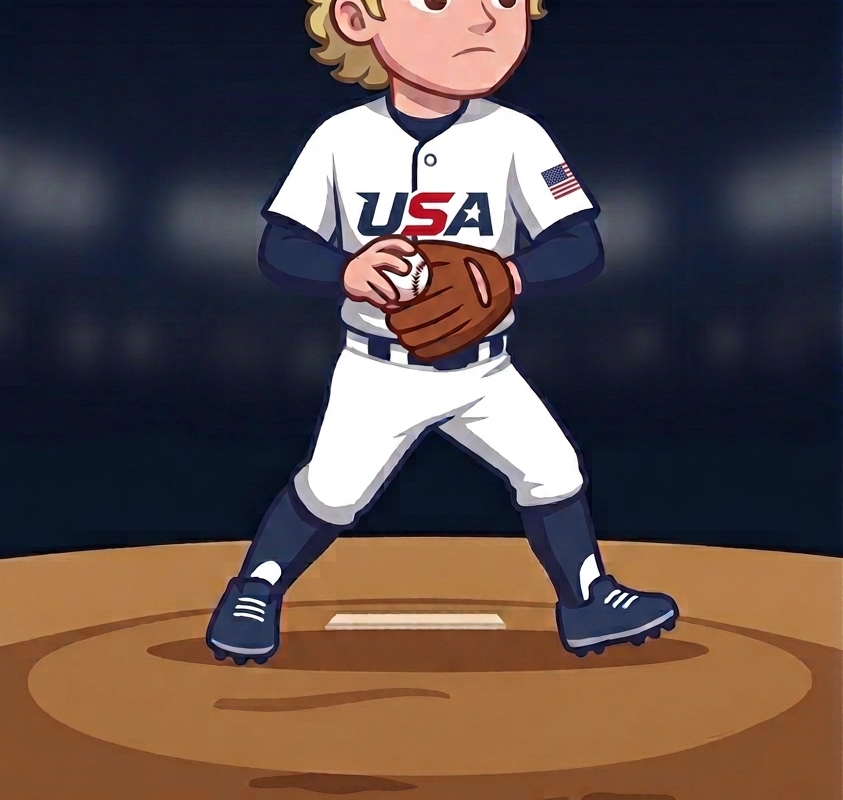
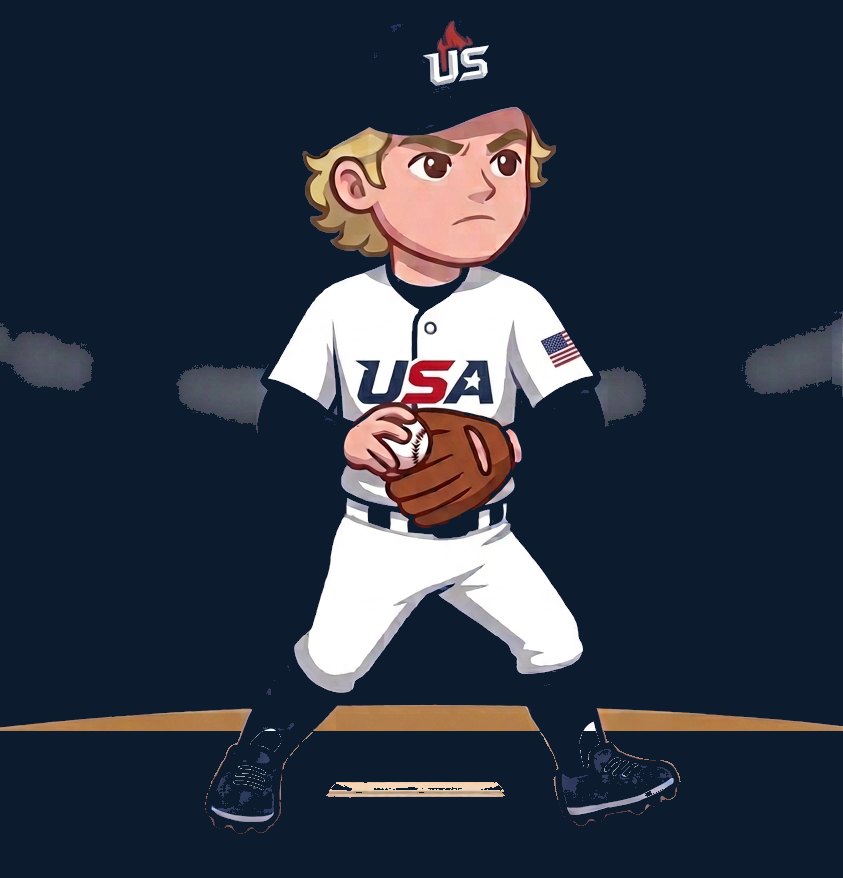
Fix US batter card black background: crop top space, use object-fit cover
- us_batter.png: crop 102px dark top space (843x980 → 843x878)
- ds-av-body img: object-fit contain → cover with center 20% to fill card

diff --git a/style.css b/style.css
@@ -533,7 +533,7 @@ body{background:radial-gradient(circle at top,#2a334d 0,#121726 42%,#06070b 100%
 .ds-av-card{width:64px;flex-shrink:0;border-radius:10px;overflow:hidden;aspect-ratio:3/4.2;display:flex;flex-direction:column;border:2px solid}
 .ds-av-top{height:6px;flex-shrink:0}
 .ds-av-body{flex:1;position:relative;overflow:hidden;background:radial-gradient(ellipse at 50% 40%,#1d3352 0%,#0c1b2e 75%)}
-.ds-av-body img{width:100%;height:100%;object-fit:contain;display:block;position:relative;z-index:1}
+.ds-av-body img{width:100%;height:100%;object-fit:cover;object-position:center 20%;display:block;position:relative;z-index:1}
 .ds-av-body::after{content:'';position:absolute;inset:0;background:radial-gradient(ellipse at 50% 50%,transparent 50%,rgba(0,0,0,.35) 100%);z-index:2;pointer-events:none}
 .pick-card-pos{font-family:'Bebas Neue',cursive;font-size:10px;line-height:1;opacity:.9;transform:translateY(4px)}
 .pick-card-foot{padding:5px 6px 8px;background:rgba(255,255,255,.78);border-top:1px solid rgba(0,0,0,.05)}
